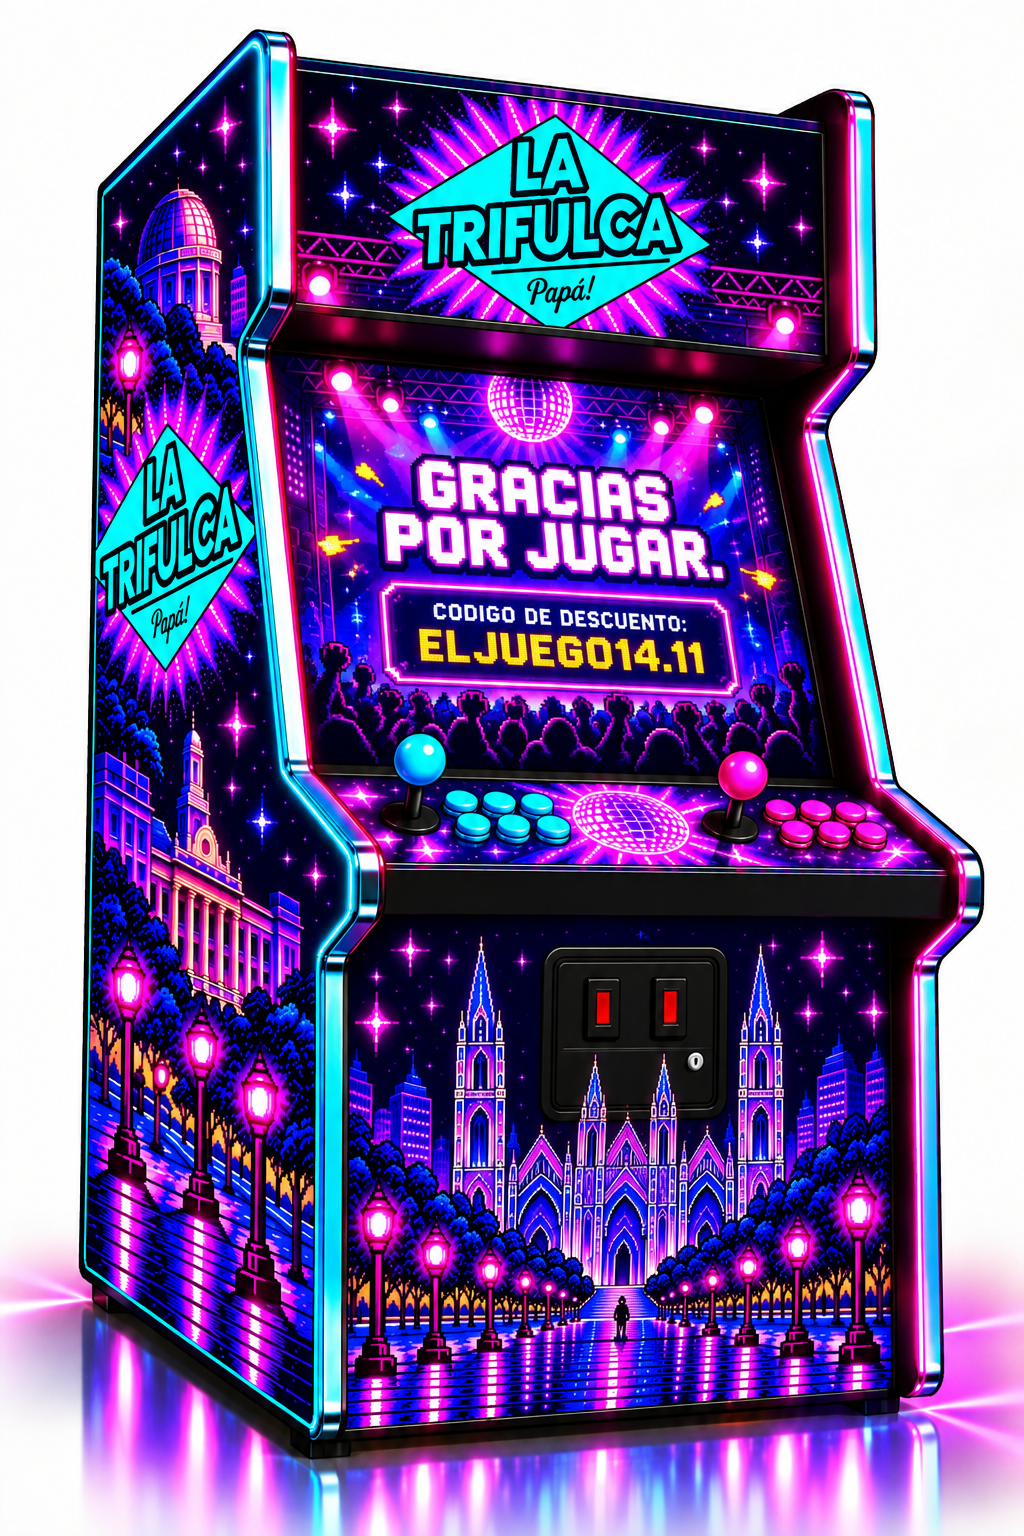
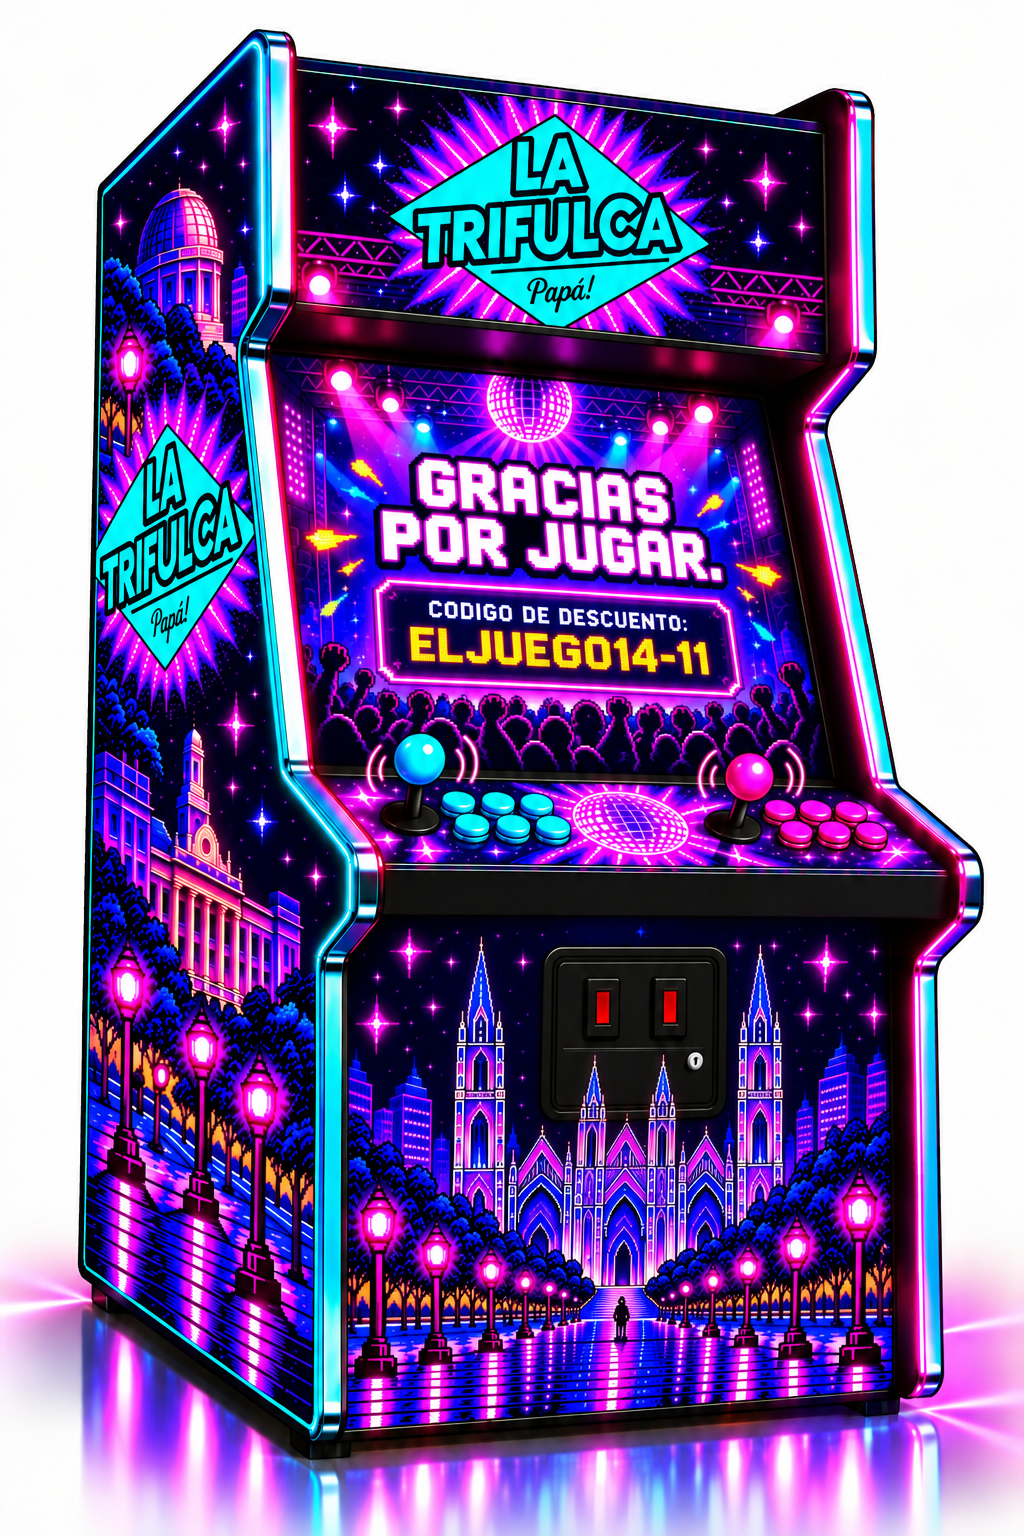
Replace Medusa thank-you card so the discount code uses a hyphen.

Changed region(s): [[0.0625, 0.0, 0.9688, 0.9688], [0.3125, 0.0312, 0.375, 0.0938], [0.0938, 0.875, 0.125, 0.9062]]

diff --git a/js/game.js b/js/game.js
@@ -178,7 +178,7 @@ const medusaSong = new Audio("assets/places/medusa/aprovecha.mp3?v=1");
 medusaSong.preload = "auto";
 medusaSong.volume = 0.6;
 const MEDUSA_CARD = new Image();
-MEDUSA_CARD.src = "assets/places/medusa/arcade-gracias.png?v=1";
+MEDUSA_CARD.src = "assets/places/medusa/arcade-gracias.png?v=2";
 let medusaVisitStart = 0;
 let medusaCycle = -1;
 

diff --git a/index.html b/index.html
@@ -44,6 +44,6 @@
     </div>
     <script src="js/config.js?v=74"></script>
 <script src="js/data.js?v=130"></script>
-<script src="js/game.js?v=223"></script>
+<script src="js/game.js?v=224"></script>
   </body>
 </html>
